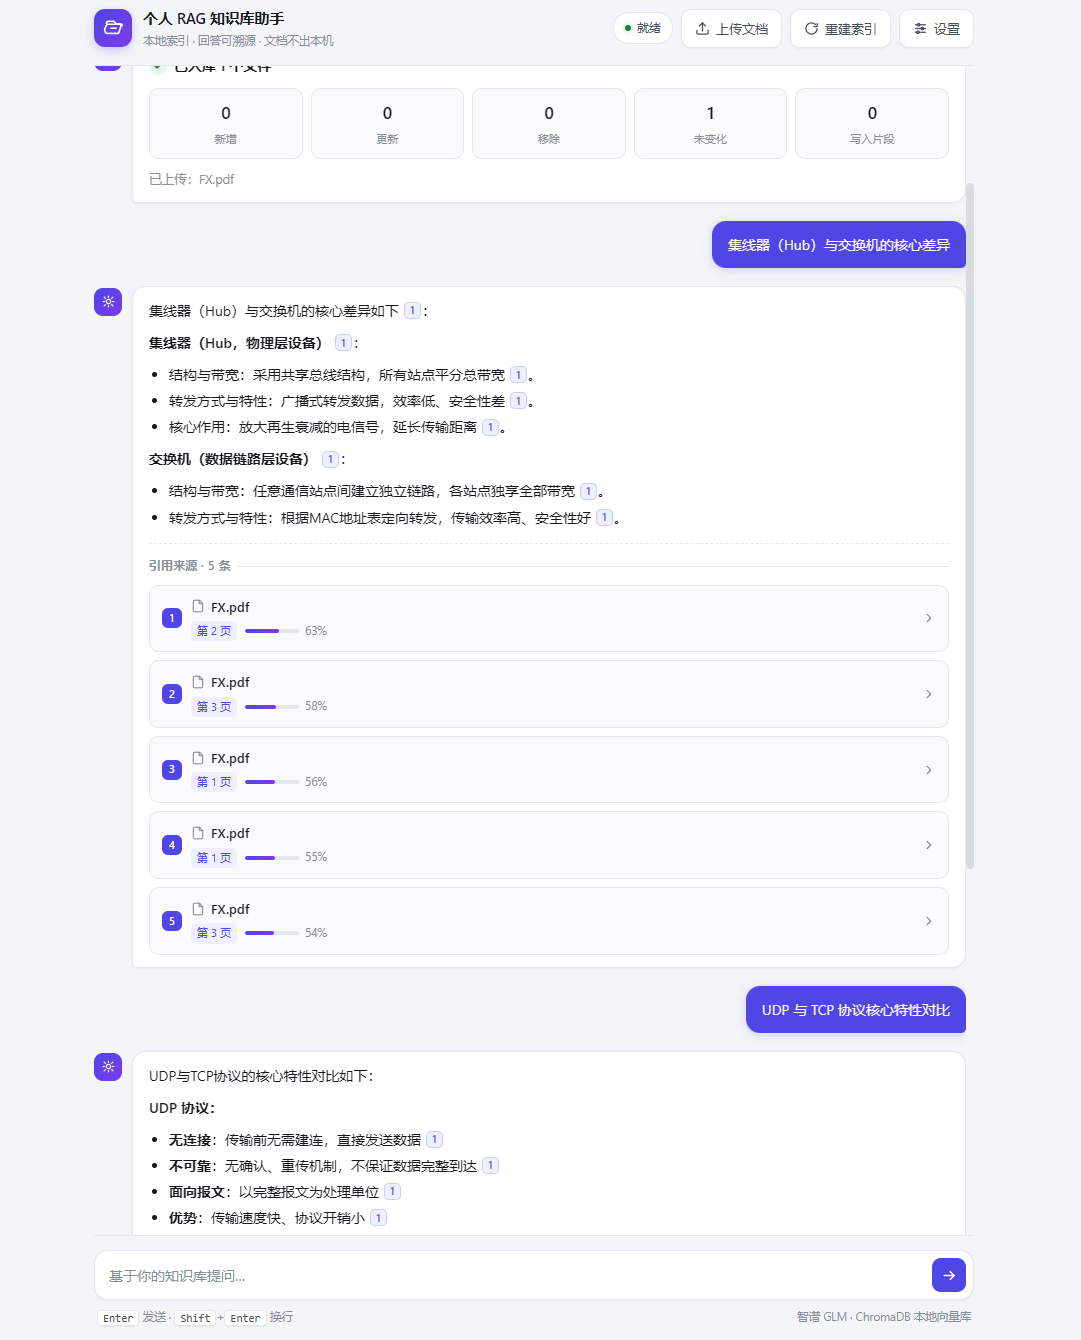
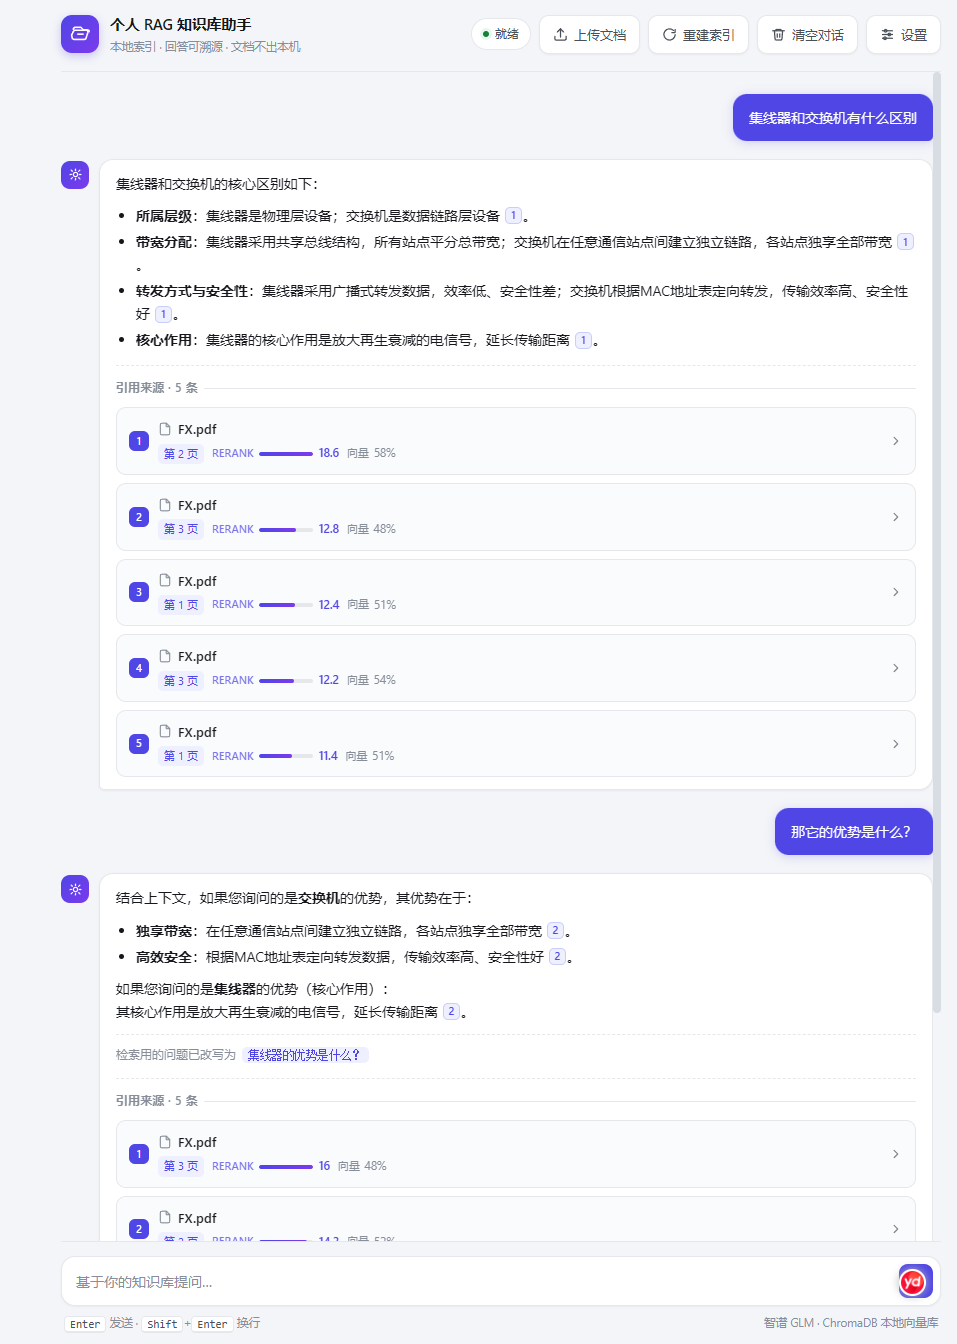
docs: 效果演示截图更新为多轮追问，同步测试数量与守卫断言
- docs/demo.png 换成加入多轮对话与精排后的真实运行截图：同一份 PDF 连续两问，
  第二问用指代追问「那它的优势是什么？」，答案下方出现改写提示，
  引用卡片同时显示 Rerank 原始分与向量相似度
- README「效果演示」文案重写，逐条说明截图里的证据：指代追问、改写可见、
  两个分数的口径（并解释为何取原始分而非接口默认的归一化分）
- 「四条防线」表中引用说明由「相似度」更正为「Rerank 分与向量分」
- 测试徽章与正文中的测试数量由 162 更新为 163
- tests/test_docs.py 的演示文案守卫同步收紧：改为校验集线器 / 交换机、改写、
  两个分数与页码四类关键词，换图后忘改文案会被当场拦下
- 测试：pytest 163 项全部通过

diff --git a/tests/test_docs.py b/tests/test_docs.py
@@ -53,9 +53,11 @@ def test_readme_demo_section_matches_screenshot():
     assert len(section) == 2, "README 缺少「效果演示」小节"
 
     body = section[1].split("\n## ", 1)[0]
-    # 新版截图展示的是同一份 PDF 上的两个问题
-    assert "集线器" in body and "TCP" in body, "效果演示文案未随截图更新"
-    assert "相似度" in body, "效果演示应说明引用卡片里的相似度"
+    # 截图展示的是同一份 PDF 上的连续两问，第二问是带指代的追问
+    assert "集线器" in body and "交换机" in body, "效果演示文案未随截图更新"
+    assert "改写" in body, "效果演示应说明追问改写（截图里有改写提示）"
+    assert "RERANK" in body and "向量" in body, "效果演示应说明引用卡片上的两个分数"
+    assert "页码" in body, "效果演示应说明引用可定位到页码"
 
 
 def test_deploy_doc_local_path_examples_follow_repo_location():
